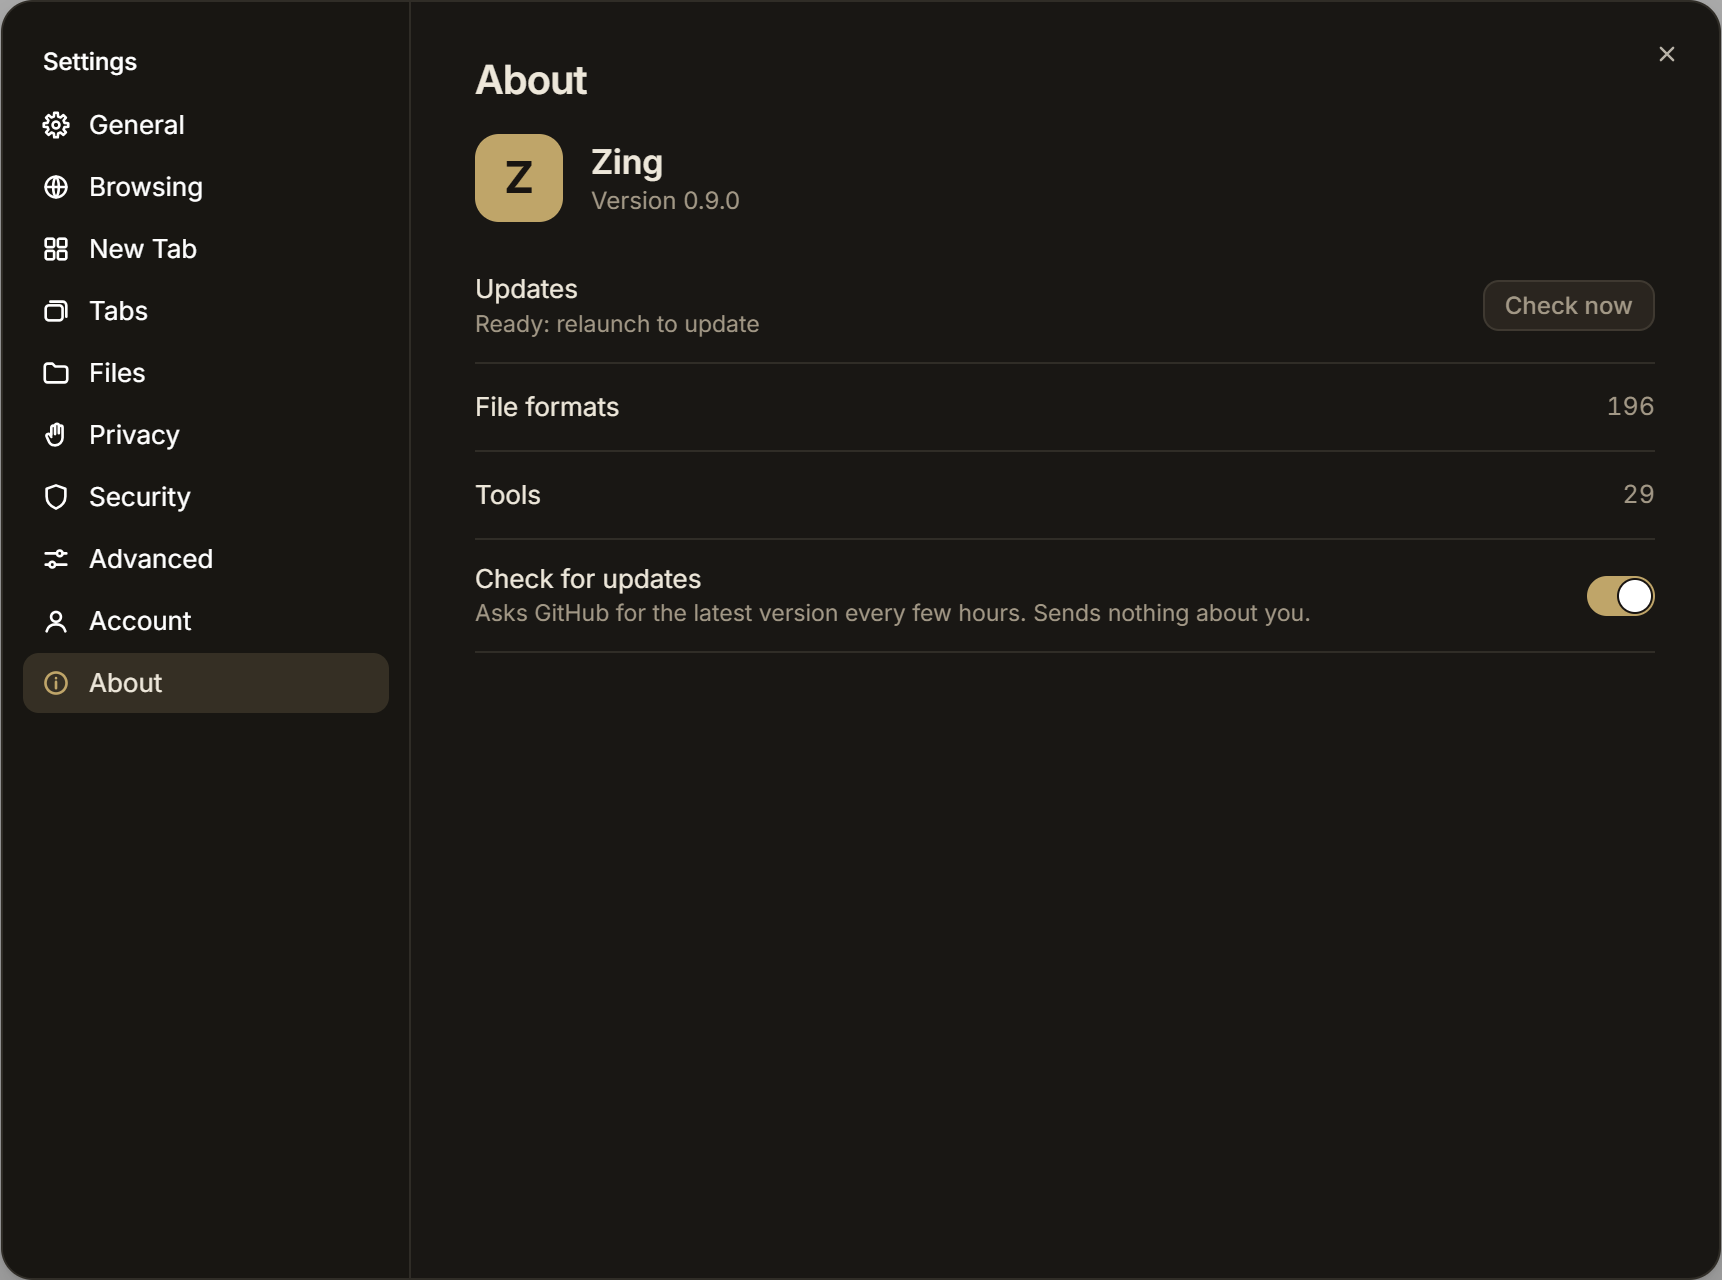
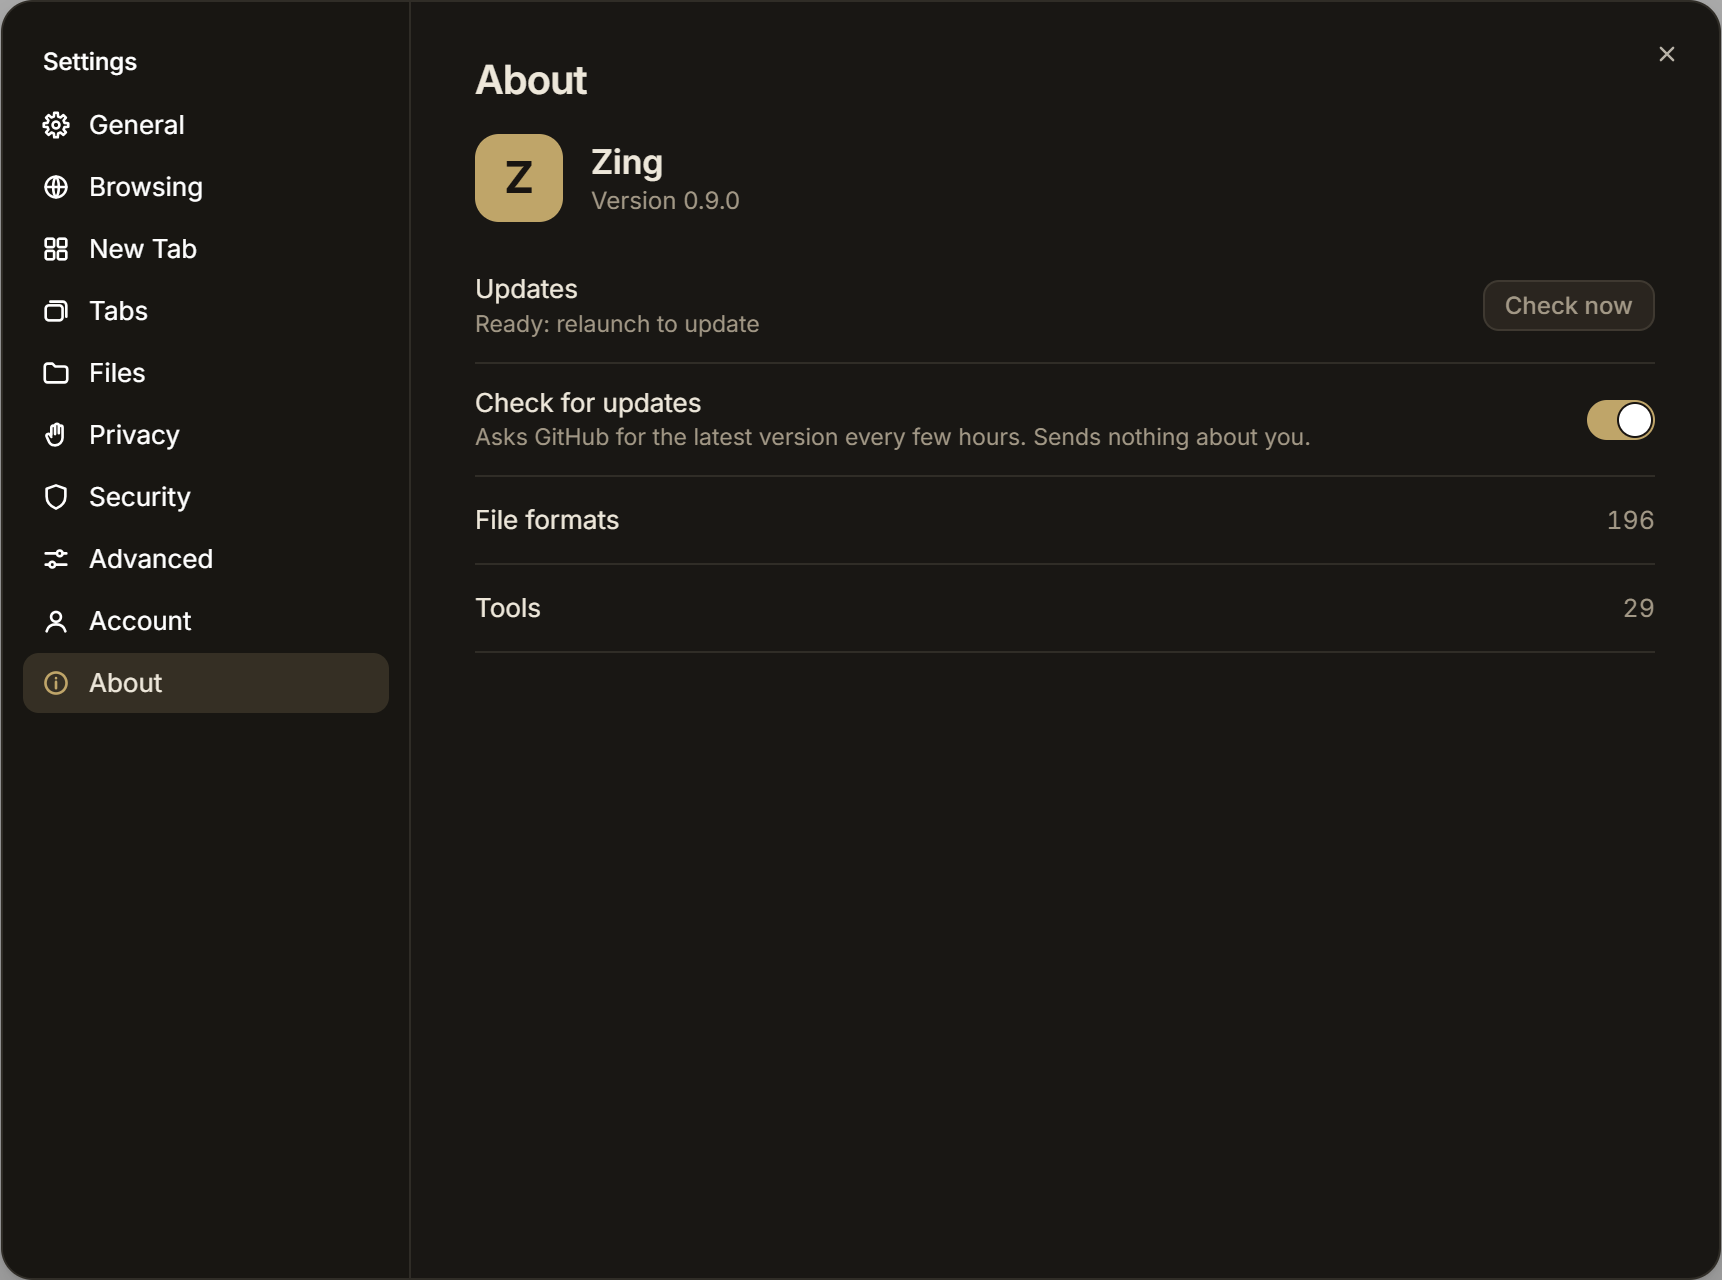
update pill: corner placement evidence

diff --git a/e2e/update-screenshots.spec.ts b/e2e/update-screenshots.spec.ts
@@ -1,16 +1,18 @@
 // Phase 8 task 6: the "Relaunch to update" pill and Settings → About, light and dark, into docs/screenshots/phase-8.
 // Skipped unless ZING_SCREENSHOTS=1, as it is run by hand.
+import { execFileSync } from 'node:child_process'
 import { mkdirSync } from 'node:fs'
 import { join } from 'node:path'
 import { expect } from '@playwright/test'
 import type { ZingApi } from '../src/shared/ipc'
 import { viewAccent } from './theme-helpers'
-import { launchZing, pageWhere, test } from './zing'
+import { launchZing, layers, pageWhere, test } from './zing'
 
 declare const window: { readonly zing: ZingApi }
 
 const OUT_DIR = join(import.meta.dirname, '..', 'docs', 'screenshots', 'phase-8')
 const MODES = ['light', 'dark'] as const
+const SCRIPT = join(import.meta.dirname, 'window-shot.ps1')
 
 test.describe('Phase 8 update screenshots', () => {
 	test.skip(process.env.ZING_SCREENSHOTS !== '1', 'set ZING_SCREENSHOTS=1 to take the Phase 8 pictures')
@@ -41,6 +43,23 @@ test.describe('Phase 8 update screenshots', () => {
 			await expect(pill.getByRole('button', { name: 'Relaunch to update' })).toBeVisible()
 			await pill.waitForTimeout(400)
 			await pill.locator('.update-pill').screenshot({ path: join(OUT_DIR, `update-pill-${mode}.png`), omitBackground: true })
+			await zing.close()
+		})
+
+		// The whole window, drawn from the screen (window-shot.ps1): it opens on screen for a few seconds (ZING_E2E_ONSCREEN=1).
+		test(`the update pill in the window's corner, ${mode}`, async () => {
+			test.setTimeout(120_000)
+			mkdirSync(OUT_DIR, { recursive: true })
+			const zing = await launchZing({ env: { ZING_E2E_ONSCREEN: '1' } })
+			await zing.chrome.evaluate((theme) => window.zing.setSetting('theme', theme), mode)
+			await expect.poll(async () => (await viewAccent(zing.chrome)).dark).toBe(mode === 'dark')
+			await zing.chrome.evaluate(() =>
+				(globalThis as unknown as { chrome: { webview: { postMessage(m: unknown): void } } }).chrome.webview.postMessage({ kind: 'test', action: 'update-ready', version: '0.9.1' }),
+			)
+			await zing.chrome.evaluate(() => window.zing.checkForUpdates())
+			await expect.poll(async () => (await layers(zing.chrome)).some((l) => l.url.endsWith('#update-pill') && l.visible)).toBe(true)
+			await zing.chrome.waitForTimeout(800)
+			execFileSync('powershell.exe', ['-NoProfile', '-NonInteractive', '-ExecutionPolicy', 'Bypass', '-File', SCRIPT, '-ProcessId', String(zing.pid), '-Out', join(OUT_DIR, `update-pill-window-${mode}.png`)], { timeout: 60_000 })
 			await zing.close()
 		})
 	}

diff --git a/e2e/update.spec.ts b/e2e/update.spec.ts
@@ -17,6 +17,17 @@ const isPill = (page: Page): boolean => page.url().endsWith('#update-pill')
 /** Whether this window really shows the pill's view (TestHooks "layers"); a view the host has hidden still has its page. */
 const pillShown = async (chrome: Page): Promise<boolean> => (await layers(chrome)).some((layer) => layer.url.endsWith('#update-pill') && layer.visible)
 
+/** The pill view sits at the content's bottom right: its edges 10 px in, which with the view's 6 px padding leaves a 16 px gap. */
+async function expectInCorner(chrome: Page): Promise<void> {
+	const shown = await layers(chrome)
+	const content = shown.find((layer) => layer.url.endsWith('#chrome'))!
+	const pill = shown.find((layer) => layer.url.endsWith('#update-pill'))!
+	expect(pill.width).toBeGreaterThan(0)
+	expect(pill.height).toBeGreaterThan(0)
+	expect(content.x + content.width - (pill.x + pill.width)).toBeCloseTo(10, 0)
+	expect(content.y + content.height - (pill.y + pill.height)).toBeCloseTo(10, 0)
+}
+
 async function restarts(chrome: Page): Promise<number> {
 	const file = join(scratchDir('zing-update-'), 'restarts.json')
 	await post(chrome, { kind: 'test', action: 'update-restarts', file })
@@ -41,12 +52,14 @@ test('Check now finds a ready update, every window shows the pill, and clicking 
 
 	await expect.poll(() => pillShown(zing.chrome)).toBe(true)
 	const first = await pageWhere(zing.browser, isPill)
+	await expectInCorner(zing.chrome)
 	await expect(first.getByRole('button', { name: 'Relaunch to update' })).toBeVisible()
 
 	await zing.chrome.evaluate(() => window.zing.runCommand('window.new'))
 	await expect.poll(() => pages(zing.browser).filter(isChrome).length).toBe(2)
 	const second = pages(zing.browser).find((p) => isChrome(p) && p !== zing.chrome)!
 	await expect.poll(() => pillShown(second)).toBe(true)
+	await expectInCorner(second)
 	await expect.poll(() => pages(zing.browser).filter(isPill).length).toBe(2)
 	for (const pill of pages(zing.browser).filter(isPill)) await expect(pill.getByRole('button', { name: 'Relaunch to update' })).toBeVisible()
 

diff --git a/src/renderer/src/settings/CustomRows.tsx b/src/renderer/src/settings/CustomRows.tsx
@@ -16,8 +16,10 @@ import { useUpdateState } from '../update/useUpdateState'
 import { privacyStatus } from './privacy'
 import { VaultSection } from './VaultSection'
 import type { CustomId } from './rows'
+import { CHECK_FOR_UPDATES_ROW, detailOf } from './rows'
 import { SettingRowShell } from './SettingRowShell'
 import type { SettingsHandle } from './useSettings'
+import { useSettings } from './useSettings'
 
 function AccentSwatch({ label, hex, selected, onSelect }: { label: string; hex: string; selected: boolean; onSelect: () => void }) {
 	return (
@@ -265,6 +267,18 @@ function UpdatesRow({ state }: { state: UpdateState | null }) {
 	)
 }
 
+/** The automatic-check switch, drawn under Check now. */
+function CheckForUpdatesRow() {
+	const handle = useSettings()
+	if (!handle) return null
+	const row = CHECK_FOR_UPDATES_ROW
+	return (
+		<SettingRowShell title={row.title} detail={detailOf(row, handle.settings)}>
+			<Toggle aria-label={row.title} checked={handle.settings.checkForUpdates} onChange={(on) => handle.set('checkForUpdates', on)} />
+		</SettingRowShell>
+	)
+}
+
 function About({ version }: { version: string }) {
 	const update = useUpdateState()
 	return (
@@ -279,6 +293,7 @@ function About({ version }: { version: string }) {
 				</div>
 			</div>
 			<UpdatesRow state={update} />
+			<CheckForUpdatesRow />
 			<SettingRowShell title="File formats">
 				<span className="row-value">{allInputs().size}</span>
 			</SettingRowShell>

diff --git a/src/renderer/src/settings/rows.ts b/src/renderer/src/settings/rows.ts
@@ -126,6 +126,11 @@ const toggle = (key: SettingKey, title: string, extra: Partial<Omit<SettingRow, 
 	...extra,
 })
 
+// Phase 8: About draws this beside Check now (CustomRows), so it is bound here rather than as a pane entry.
+export const CHECK_FOR_UPDATES_ROW: SettingRow = toggle('checkForUpdates', 'Check for updates', {
+	detail: 'Asks GitHub for the latest version every few hours. Sends nothing about you.',
+})
+
 export const PANES: Readonly<Record<SettingsCategoryId, readonly PaneItem[]>> = {
 	general: [
 		{
@@ -303,12 +308,13 @@ export const PANES: Readonly<Record<SettingsCategoryId, readonly PaneItem[]>> = 
 		toggle('acceleratedCanvas', 'Draw canvas on the GPU', { detail: 'Faster on canvas-heavy pages. Relaunch to apply.' }),
 	],
 	account: [{ type: 'custom', id: 'account', keys: [] }],
-	about: [{ type: 'custom', id: 'about', keys: [] }, toggle('checkForUpdates', 'Check for updates', { detail: 'Asks GitHub for the latest version every few hours. Sends nothing about you.' })],
+	about: [{ type: 'custom', id: 'about', keys: [] }],
 }
 
 /** Every setting key some control edits, hidden rows included. */
 export function boundKeys(): Set<SettingKey> {
 	const keys = new Set<SettingKey>()
+	keys.add(CHECK_FOR_UPDATES_ROW.key)
 	for (const items of Object.values(PANES)) {
 		for (const item of items) {
 			if (item.type === 'setting') keys.add(item.key)

diff --git a/src/renderer/src/settings/rows.test.ts b/src/renderer/src/settings/rows.test.ts
@@ -1,7 +1,7 @@
 import { describe, expect, it } from 'vitest'
 import { DEFAULT_SETTINGS, SETTING_KEYS, acceptsValue } from '@shared/settings'
 import { SETTINGS_CATEGORIES } from '@shared/shell/shellState'
-import { boundKeys, CATEGORIES, PANES, detailOf, isVisible, type SettingRow } from './rows'
+import { boundKeys, CATEGORIES, CHECK_FOR_UPDATES_ROW, PANES, detailOf, isVisible, type SettingRow } from './rows'
 
 describe('settings rows', () => {
 	it('binds every setting in the schema to a control', () => {
@@ -14,8 +14,9 @@ describe('settings rows', () => {
 	})
 
 	it('puts the update switch in About, saying what it sends', () => {
-		const row = PANES.about.find((i) => i.type === 'setting' && i.key === 'checkForUpdates')
-		if (row?.type !== 'setting') throw new Error('No checkForUpdates row in About')
+		const row = CHECK_FOR_UPDATES_ROW
+		expect(row.key).toBe('checkForUpdates')
+		expect(boundKeys().has('checkForUpdates')).toBe(true)
 		expect(row.control.kind).toBe('toggle')
 		expect(detailOf(row, DEFAULT_SETTINGS)).toBe('Asks GitHub for the latest version every few hours. Sends nothing about you.')
 	})

diff --git a/host/Zing.Core.Tests/UpdaterTests.cs b/host/Zing.Core.Tests/UpdaterTests.cs
@@ -10,6 +10,7 @@ public sealed class UpdaterTests
 		public string? Newer { get; set; }
 		public Exception? FindError { get; set; }
 		public TaskCompletionSource<string?>? Gate { get; set; }
+		public TaskCompletionSource? DownloadGate { get; set; }
 		public int Finds { get; private set; }
 		public int Downloads { get; private set; }
 		public int Restarts { get; private set; }
@@ -27,7 +28,7 @@ public sealed class UpdaterTests
 		public Task DownloadAsync(CancellationToken cancel)
 		{
 			Downloads++;
-			return Task.CompletedTask;
+			return DownloadGate?.Task ?? Task.CompletedTask;
 		}
 
 		public void RestartIntoUpdate()
@@ -169,6 +170,22 @@ public sealed class UpdaterTests
 		var updater = Make();
 		updater.Relaunch();
 		Assert.Equal(0, _source.Restarts);
+	}
+
+	[Fact]
+	public async Task Relaunch_while_downloading_does_nothing()
+	{
+		_source.Newer = "0.9.1";
+		_source.DownloadGate = new TaskCompletionSource();
+		var updater = Make();
+		var check = updater.CheckNowAsync();
+		var before = updater.State;
+		Assert.Equal(UpdateStatus.Downloading, before.Status);
+		updater.Relaunch();
+		Assert.Equal(0, _source.Restarts);
+		Assert.Equal(before, updater.State);
+		_source.DownloadGate.SetResult();
+		await check;
 	}
 
 	[Fact]

diff --git a/host/Zing.Host/UpdatePillLayer.cs b/host/Zing.Host/UpdatePillLayer.cs
@@ -11,7 +11,8 @@ namespace Zing.Host;
 /// </summary>
 public sealed class UpdatePillLayer(HostWindow window, WindowScope scope, CoreWebView2Environment environment, Bridge bridge, Func<Rect> content, Action<RendererView> created, OverlayHost overlays, UpdateState initial)
 {
-	private const double Margin = 16;
+	// The view's own 6 px padding (update.css, room for the shadow and focus ring) makes the visible gap 16 px.
+	private const double Margin = 10;
 
 	private Task<RendererView>? _ready;
 	private bool _shown = IsReady(initial);
